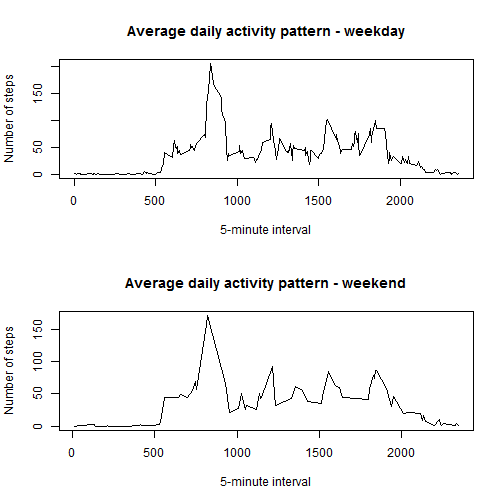
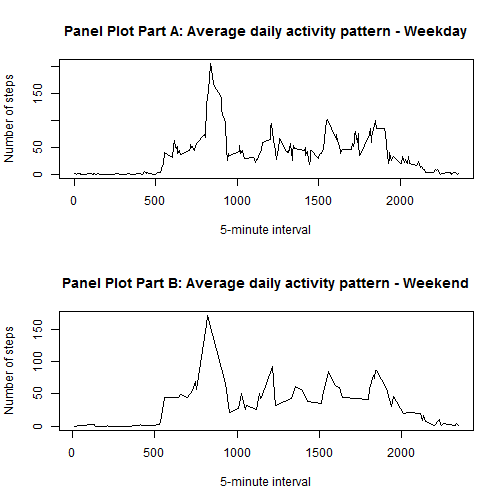
added chart titles

Changed region(s): [[0.119, 0.5357, 0.9524, 0.5952], [0.119, 0.0298, 0.9226, 0.0893]]

diff --git a/PA1_template.html b/PA1_template.html
@@ -248,10 +248,10 @@ interval: Identifier for the 5-minute interval in which measurement was taken  <
 
 <pre><code class="r">hist(df0.raw$steps, 
      xlab = &quot;Total number of steps taken each day&quot;,
-     main = &quot;Total number of steps taken each day&quot;)
+     main = &quot;Histogram: Total number of steps taken each day&quot;)
 </code></pre>
 
[2 lines of base64/hex data omitted]
 
 <pre><code class="r">#?hist
 </code></pre>
@@ -293,10 +293,10 @@ with(df2.steps.interval, plot(x = interval, y = mean.steps,
      type = &quot;l&quot;,
      xlab = &quot;5-minute interval&quot;,
      ylab = &quot;Number of steps&quot;,
-     main = &quot;Average daily activity pattern&quot;))
+     main = &quot;Time series plot: Average daily activity pattern&quot;))
 </code></pre>
 
[2 lines of base64/hex data omitted]
 
 <h4>Which 5-minute interval, on average across all the days in the dataset, contains the maximum number of steps?</h4>
 
@@ -323,6 +323,8 @@ nrow(df0.raw[!complete.cases(df0.raw), ])
 
 <h4>Devise a strategy for filling in all of the missing values in the dataset. The strategy does not need to be sophisticated. For example, you could use the mean/median for that day, or the mean for that 5-minute interval, etc.</h4>
 
+<p>The strategy I am using for filling in all of the missing values in the dataset is to replace the missing values with the average number of steps for that 5-minute interval, averaged accross all days (with non-missing values).</p>
+
 <h4>Create a new dataset that is equal to the original dataset but with the missing data filled in.</h4>
 
 <pre><code class="r"># Create a new dataset, raw merged with the average number of steps for each 5-minute interval
@@ -339,10 +341,10 @@ df3.replace$steps.replace &lt;- ifelse(is.na(df3.replace$steps), df3.replace$mea
 
 <pre><code class="r">hist(df3.replace$steps.replace, 
      xlab = &quot;Total number of steps taken each day&quot;,
-     main = &quot;Total number of steps taken each day&quot;)
+     main = &quot;Histogram: Total number of steps taken each day (Imputed Missing Values)&quot;)
 </code></pre>
 
[2 lines of base64/hex data omitted]
 
 <pre><code class="r">#?hist
 </code></pre>
@@ -397,22 +399,27 @@ df3.replace$day.type &lt;- as.factor(ifelse(df3.replace$day %in% c(&quot;Saturda
 <h4>Make a panel plot containing a time series plot (i.e. type = &ldquo;l&rdquo;) of the 5-minute interval (x-axis) and the average number of steps taken, averaged across all weekday days or weekend days (y-axis). The plot should look something like the following, which was creating using simulated data:</h4>
 
 <pre><code class="r">par(mfrow = c(2, 1))
+?layout
+</code></pre>
 
-with(df2.steps.interval[df3.replace$day.type == &quot;weekday&quot;, ], plot(x = interval, y = mean.steps, 
+<pre><code>## starting httpd help server ... done
+</code></pre>
+
+<pre><code class="r">with(df2.steps.interval[df3.replace$day.type == &quot;weekday&quot;, ], plot(x = interval, y = mean.steps, 
      type = &quot;l&quot;,
      xlab = &quot;5-minute interval&quot;,
      ylab = &quot;Number of steps&quot;,
-     main = &quot;Average daily activity pattern - weekday&quot;),
+     main = &quot;Panel Plot Part A: Average daily activity pattern - Weekday&quot;),
      )
 
 with(df2.steps.interval[df3.replace$day.type == &quot;weekend&quot;, ], plot(x = interval, y = mean.steps, 
      type = &quot;l&quot;,
      xlab = &quot;5-minute interval&quot;,
      ylab = &quot;Number of steps&quot;,
-     main = &quot;Average daily activity pattern - weekend&quot;))
+     main = &quot;Panel Plot Part B: Average daily activity pattern - Weekend&quot;))
 </code></pre>
 
[2 lines of base64/hex data omitted]
 
 </body>
 

diff --git a/PA1_template.md b/PA1_template.md
@@ -83,7 +83,7 @@ summary(df0.raw)
 ```r
 hist(df0.raw$steps, 
      xlab = "Total number of steps taken each day",
-     main = "Total number of steps taken each day")
+     main = "Histogram: Total number of steps taken each day")
 ```
 
 ![plot of chunk unnamed-chunk-3](figure/unnamed-chunk-3.png) 
@@ -138,7 +138,7 @@ with(df2.steps.interval, plot(x = interval, y = mean.steps,
      type = "l",
      xlab = "5-minute interval",
      ylab = "Number of steps",
-     main = "Average daily activity pattern"))
+     main = "Time series plot: Average daily activity pattern"))
 ```
 
 ![plot of chunk unnamed-chunk-6](figure/unnamed-chunk-6.png) 
@@ -161,6 +161,7 @@ df2.steps.interval[which.max(df2.steps.interval[ , 2]), ]
 ## Imputing missing values
 
 #### Note that there are a number of days/intervals where there are missing values (coded as NA). The presence of missing days may introduce bias into some calculations or summaries of the data.
+
 #### Calculate and report the total number of missing values in the dataset (i.e. the total number of rows with NAs)
 
 
@@ -174,6 +175,9 @@ nrow(df0.raw[!complete.cases(df0.raw), ])
 ```
 
 #### Devise a strategy for filling in all of the missing values in the dataset. The strategy does not need to be sophisticated. For example, you could use the mean/median for that day, or the mean for that 5-minute interval, etc.
+
+The strategy I am using for filling in all of the missing values in the dataset is to replace the missing values with the average number of steps for that 5-minute interval, averaged accross all days (with non-missing values).
+
 #### Create a new dataset that is equal to the original dataset but with the missing data filled in.
 
 
@@ -194,7 +198,7 @@ df3.replace$steps.replace <- ifelse(is.na(df3.replace$steps), df3.replace$mean.s
 ```r
 hist(df3.replace$steps.replace, 
      xlab = "Total number of steps taken each day",
-     main = "Total number of steps taken each day")
+     main = "Histogram: Total number of steps taken each day (Imputed Missing Values)")
 ```
 
 ![plot of chunk unnamed-chunk-10](figure/unnamed-chunk-10.png) 
@@ -267,19 +271,26 @@ df3.replace$day.type <- as.factor(ifelse(df3.replace$day %in% c("Saturday", "Sun
 
 ```r
 par(mfrow = c(2, 1))
+?layout
+```
 
+```
+## starting httpd help server ... done
+```
+
+```r
 with(df2.steps.interval[df3.replace$day.type == "weekday", ], plot(x = interval, y = mean.steps, 
      type = "l",
      xlab = "5-minute interval",
      ylab = "Number of steps",
-     main = "Average daily activity pattern - weekday"),
+     main = "Panel Plot Part A: Average daily activity pattern - Weekday"),
      )
 
 with(df2.steps.interval[df3.replace$day.type == "weekend", ], plot(x = interval, y = mean.steps, 
      type = "l",
      xlab = "5-minute interval",
      ylab = "Number of steps",
-     main = "Average daily activity pattern - weekend"))
+     main = "Panel Plot Part B: Average daily activity pattern - Weekend"))
 ```
 
 ![plot of chunk unnamed-chunk-14](figure/unnamed-chunk-14.png) 
